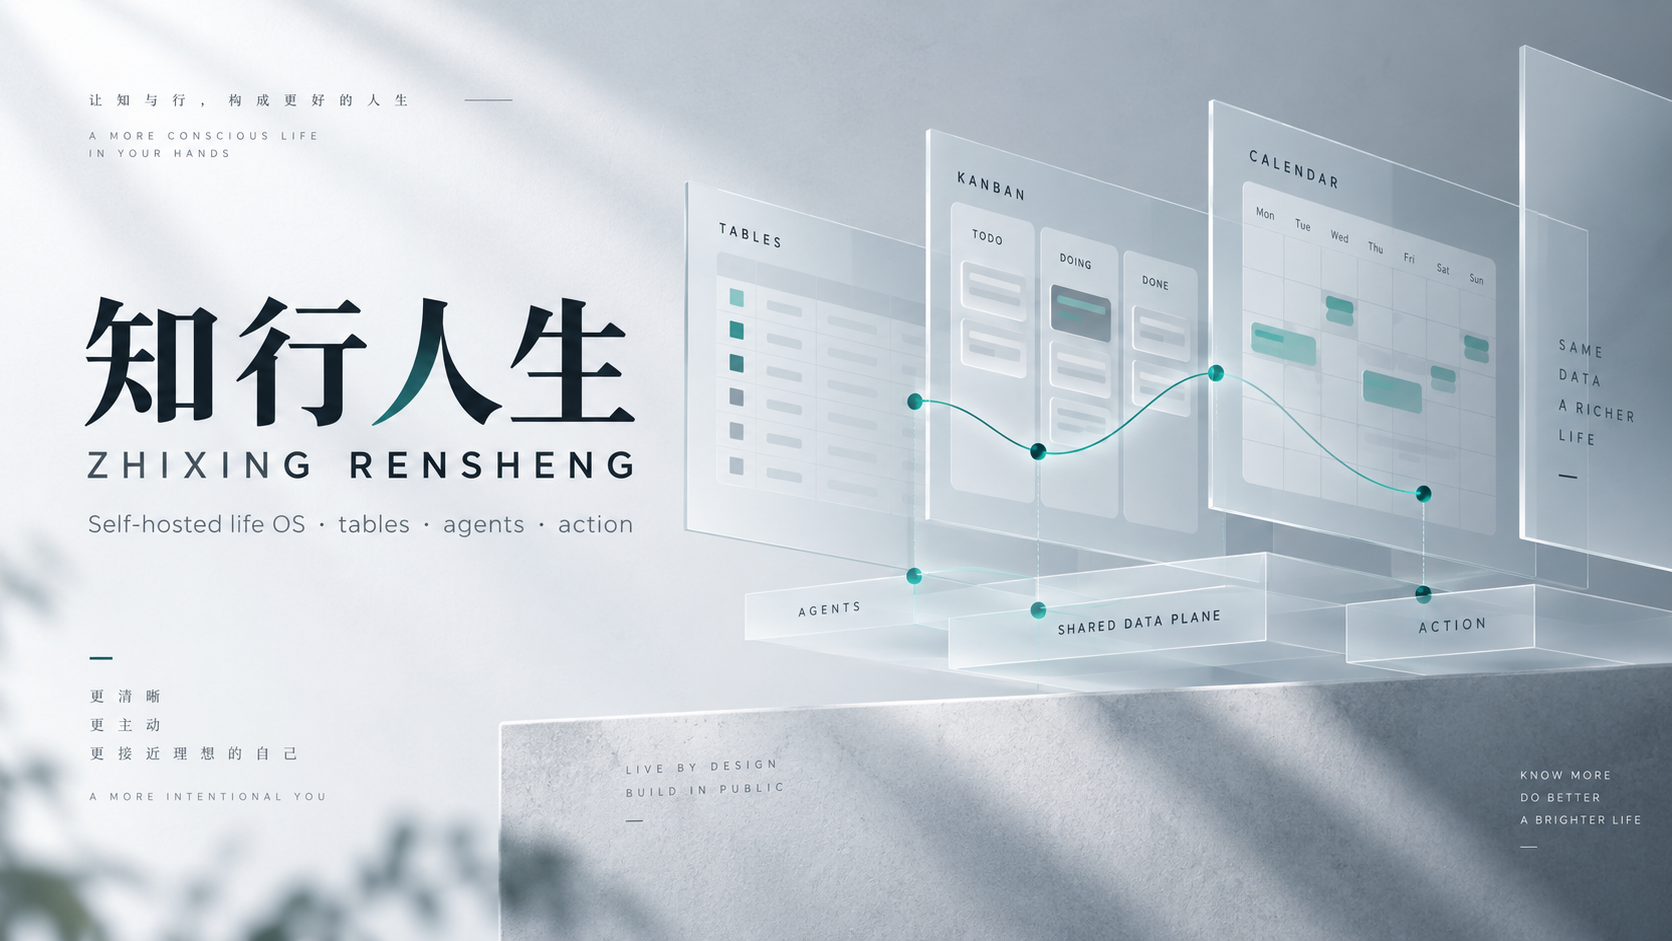
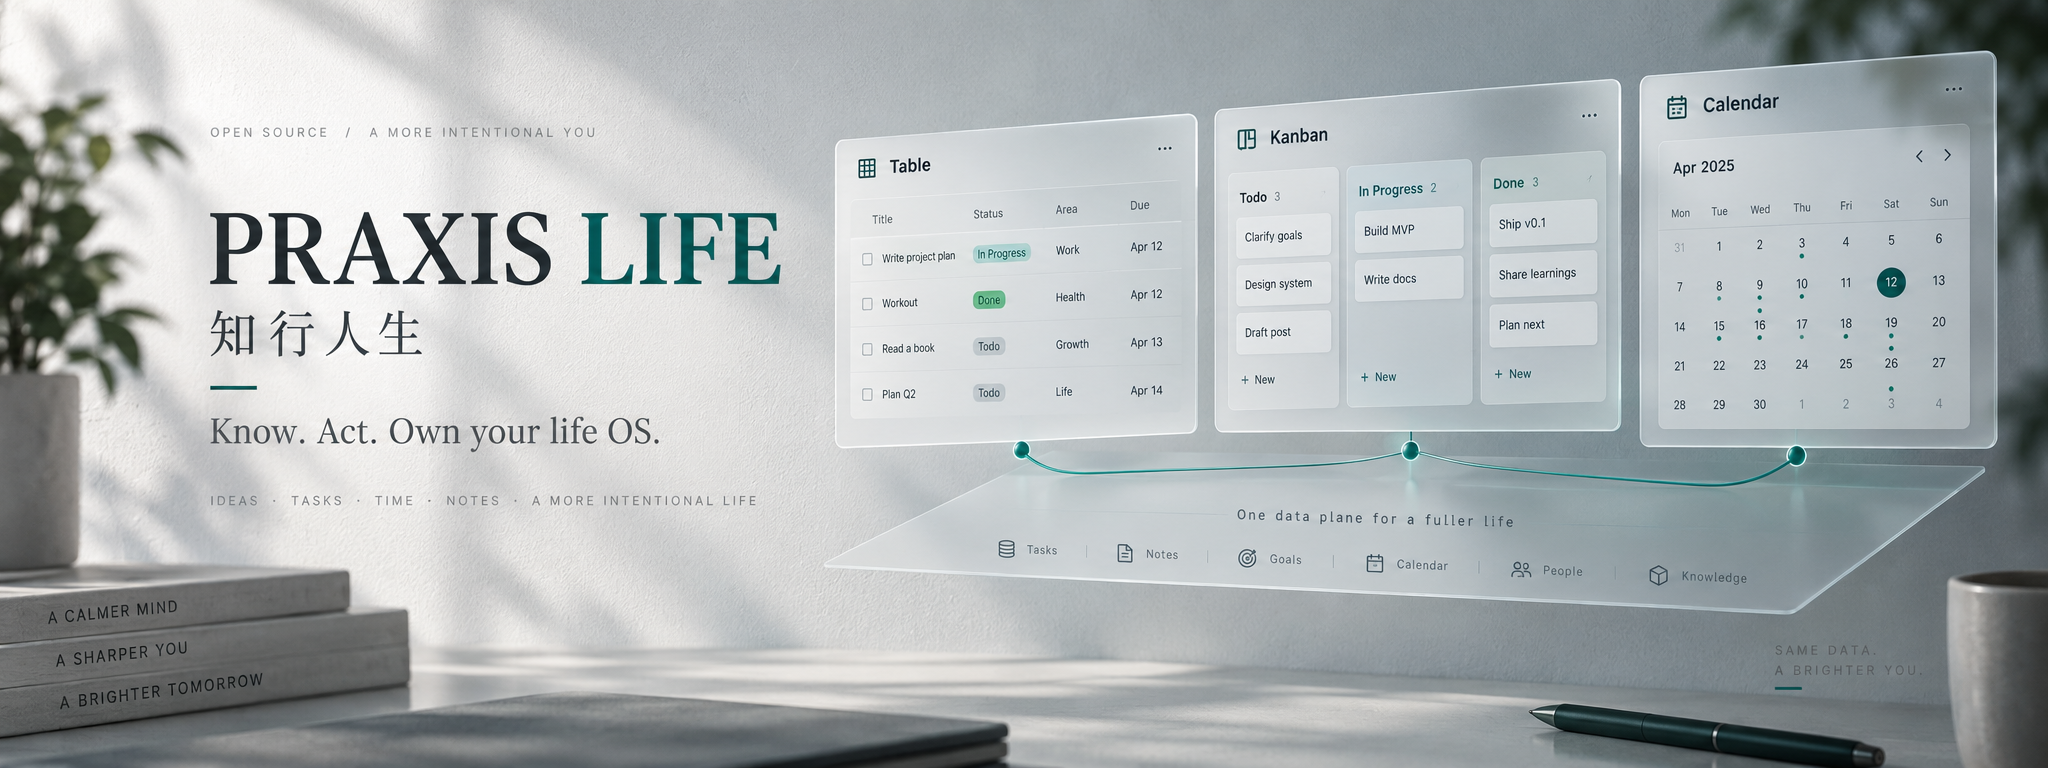
品牌升级为 Praxis Life：更新 README、横幅与仓库包装。

diff --git a/README.md b/README.md
@@ -1,12 +1,12 @@
 <p align="center">
-  <img src="docs/assets/banner.png" alt="知行人生 / Zhixing Rensheng" width="100%" />
+  <img src="docs/assets/banner.png" alt="Praxis Life" width="100%" />
 </p>
 
-<h1 align="center">知行人生 · Zhixing Rensheng</h1>
+<h1 align="center">Praxis Life</h1>
 
 <p align="center">
-  <strong>Self-hosted life OS</strong> — multidimensional tables, kanban, calendar, and Agent/MCP on one private data plane.<br/>
-  自托管人生操作系统：多维表格 · 看板 · 日历，人与 Agent 读写同一份事实。
+  <em>知行人生</em> — know, then act; refine life through practice.<br/>
+  <strong>Self-hosted life OS</strong> for humans and agents on one private data plane.
 </p>
 
 <p align="center">
@@ -23,9 +23,9 @@
 
 ### Why this exists
 
-Most "life tools" either lock your data in a SaaS silo, or give agents a chatbot with no durable structure. **Zhixing Rensheng** is the opposite bet: a **self-hosted bitable** you own, with views humans already understand (grid / kanban / calendar / gallery / form / gantt), plus a first-class **MCP + REST** surface so external agents operate on the *same* records — under ACL, not vibes.
+Most life tools either lock your data in a SaaS silo, or give agents a chatbot with no durable structure. **Praxis Life** takes the opposite bet: a **self-hosted bitable** you own, with views humans already understand (grid / kanban / calendar / gallery / form / gantt), plus a first-class **MCP + REST** surface so external agents operate on the *same* records — under ACL, not vibes.
 
-Tagline we ship with: *Don't wait for perfect. Refine through knowing and doing.*
+*Praxis* is the classical word for uniting knowing and doing — the same spirit as 知行. The product tagline: *Don't wait for perfect. Refine through knowing and doing.*
 
 ### Highlights
 
@@ -52,8 +52,8 @@ Tagline we ship with: *Don't wait for perfect. Refine through knowing and doing.
 ### Quick start (local)
 
 ```bash
-git clone https://github.com/zhaopeinan/zhixing-rensheng.git
-cd zhixing-rensheng
+git clone https://github.com/zhaopeinan/praxis-life.git
+cd praxis-life
 npm install
 npm run dev
 ```
@@ -121,10 +121,10 @@ Without SMTP, OTP codes appear in the login form (**dev only**). Production must
 ```json
 {
   "mcpServers": {
-    "zhixing-rensheng": {
+    "praxis-life": {
       "command": "npx",
       "args": ["tsx", "src/mcp.ts"],
-      "cwd": "/absolute/path/to/zhixing-rensheng",
+      "cwd": "/absolute/path/to/praxis-life",
       "env": { "DUOWEI_TOKEN": "dwa_..." }
     }
   }
@@ -160,9 +160,9 @@ Actively developed open source. Capability map vs. Feishu-style bitable: [`docs/
 
 ### 它解决什么问题
 
-多数人生工具要么把数据锁进 SaaS，要么只给 Agent 一个没有结构的对话框。**知行人生**反过来做：你自托管一份**多维表格数据面**，人类用熟悉的视图工作；外部 Agent 通过 **MCP / REST** 在同一 ACL 下读写同一批记录——事实只有一份。
+多数人生工具要么把数据锁进 SaaS，要么只给 Agent 一个没有结构的对话框。**Praxis Life（知行人生）**反过来做：你自托管一份**多维表格数据面**，人类用熟悉的视图工作；外部 Agent 通过 **MCP / REST** 在同一 ACL 下读写同一批记录——事实只有一份。
 
-产品一句话：**不要为完美而等待，在知行中完善。**
+*Praxis* 即「知行」：把认知落到行动里。产品一句话：**不要为完美而等待，在知行中完善。**
 
 ### 能力摘要
 
@@ -180,8 +180,8 @@ Actively developed open source. Capability map vs. Feishu-style bitable: [`docs/
 ### 本地启动
 
 ```bash
-git clone https://github.com/zhaopeinan/zhixing-rensheng.git
-cd zhixing-rensheng
+git clone https://github.com/zhaopeinan/praxis-life.git
+cd praxis-life
 npm install
 npm run dev
 ```
@@ -249,10 +249,10 @@ docker compose up -d --build
 ```json
 {
   "mcpServers": {
-    "zhixing-rensheng": {
+    "praxis-life": {
       "command": "npx",
       "args": ["tsx", "src/mcp.ts"],
-      "cwd": "/绝对路径/zhixing-rensheng",
+      "cwd": "/绝对路径/praxis-life",
       "env": { "DUOWEI_TOKEN": "dwa_..." }
     }
   }
@@ -283,5 +283,5 @@ npm run build:web
 ---
 
 <p align="center">
-  <sub>知行人生 · Zhixing Rensheng — self-hosted life OS for humans and agents.</sub>
+  <sub>Praxis Life · 知行人生 — self-hosted life OS for humans and agents.</sub>
 </p>
